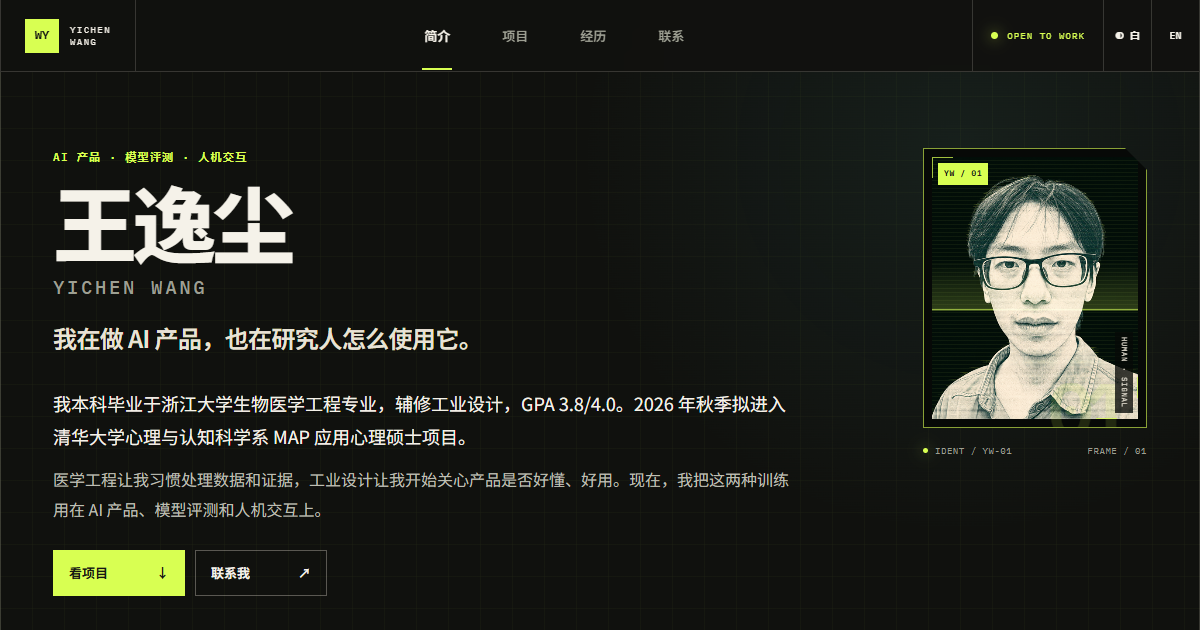
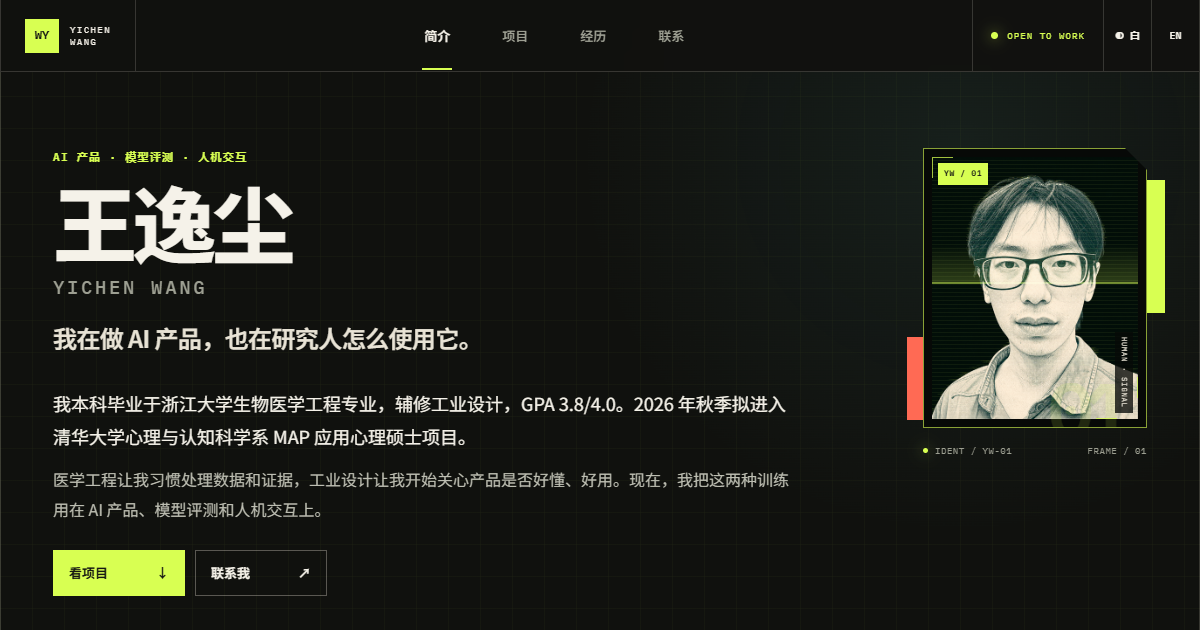
add bold color blocks and calm motion

diff --git a/styles.css b/styles.css
@@ -11,6 +11,11 @@
   --acid-soft: #a9ca3c;
   --sky: #72ddd1;
   --hot: #ff6a54;
+  --block-acid: #d8ff52;
+  --block-sky: #72ddd1;
+  --block-hot: #ff6a54;
+  --on-block: #161812;
+  --media-shadow: 14px;
   --white: #f5f2e9;
   --muted: #9d9f92;
   --text: #d5d3c9;
@@ -39,6 +44,10 @@ html[data-theme="light"] {
   --acid-soft: #5e7900;
   --sky: #167d76;
   --hot: #c74434;
+  --block-acid: #bddb38;
+  --block-sky: #5dbdb4;
+  --block-hot: #e75e4b;
+  --on-block: #151712;
 }
 
 * {
@@ -377,12 +386,14 @@ html[data-theme="light"] .site-header {
   border: 1px solid var(--line-strong);
   font-size: 13px;
   font-weight: 700;
-  transition: color 160ms ease, border-color 160ms ease, background 160ms ease;
+  transition: color 220ms ease, border-color 220ms ease, background 220ms ease, transform 320ms cubic-bezier(0.22, 1, 0.36, 1), box-shadow 320ms cubic-bezier(0.22, 1, 0.36, 1);
 }
 
 .action:hover {
   border-color: var(--acid);
   color: var(--acid);
+  box-shadow: 4px 4px 0 rgba(216, 255, 82, 0.16);
+  transform: translate(-2px, -2px);
 }
 
 .action-primary {
@@ -397,10 +408,38 @@ html[data-theme="light"] .site-header {
 }
 
 .portrait-card {
+  position: relative;
   grid-area: portrait;
   width: 224px;
   margin: 0;
   align-self: start;
+  isolation: isolate;
+}
+
+.portrait-card::before,
+.portrait-card::after {
+  position: absolute;
+  z-index: -1;
+  content: "";
+  pointer-events: none;
+}
+
+.portrait-card::before {
+  top: 32px;
+  right: -18px;
+  width: 72%;
+  height: 43%;
+  background: var(--block-acid);
+  animation: color-block-drift 8.5s cubic-bezier(0.45, 0, 0.55, 1) infinite alternate;
+}
+
+.portrait-card::after {
+  bottom: 38px;
+  left: -16px;
+  width: 44%;
+  height: 27%;
+  background: var(--block-hot);
+  animation: color-block-drift-reverse 10s cubic-bezier(0.45, 0, 0.55, 1) infinite alternate;
 }
 
 .portrait-stage {
@@ -413,6 +452,8 @@ html[data-theme="light"] .site-header {
   background: #070907;
   box-shadow: 11px 11px 0 rgba(216, 255, 82, 0.1);
   clip-path: polygon(0 0, calc(100% - 22px) 0, 100% 22px, 100% 100%, 0 100%);
+  animation: portrait-float 7.2s cubic-bezier(0.45, 0, 0.55, 1) infinite alternate;
+  will-change: transform;
 }
 
 html[data-theme="light"] .portrait-stage {
@@ -427,6 +468,8 @@ html[data-theme="light"] .portrait-stage {
   object-fit: cover;
   object-position: center;
   filter: brightness(1.02) contrast(1.04) saturate(0.78);
+  animation: portrait-breathe 9s cubic-bezier(0.45, 0, 0.55, 1) infinite alternate;
+  will-change: transform;
 }
 
 html[data-theme="light"] .portrait-image {
@@ -462,11 +505,11 @@ html[data-theme="light"] .portrait-raster {
   top: 8px;
   right: 8px;
   left: 8px;
-  height: 17%;
+  height: 14%;
   border-bottom: 1px solid rgba(216, 255, 82, 0.94);
   background: linear-gradient(to bottom, transparent, rgba(216, 255, 82, 0.2));
   mix-blend-mode: screen;
-  animation: portrait-scan 4.8s cubic-bezier(0.45, 0, 0.55, 1) infinite alternate;
+  animation: portrait-scan 6.4s cubic-bezier(0.45, 0, 0.55, 1) infinite alternate;
 }
 
 html[data-theme="light"] .portrait-scanner {
@@ -558,7 +601,47 @@ html[data-theme="light"] .portrait-code {
   }
 
   to {
-    transform: translateY(463%);
+    transform: translateY(585%);
+  }
+}
+
+@keyframes portrait-float {
+  from {
+    transform: translate3d(0, 0, 0) rotate(0deg);
+  }
+
+  to {
+    transform: translate3d(0, -4px, 0) rotate(0.35deg);
+  }
+}
+
+@keyframes portrait-breathe {
+  from {
+    transform: scale(1);
+  }
+
+  to {
+    transform: scale(1.018);
+  }
+}
+
+@keyframes color-block-drift {
+  from {
+    transform: translate3d(0, 0, 0);
+  }
+
+  to {
+    transform: translate3d(-5px, 7px, 0);
+  }
+}
+
+@keyframes color-block-drift-reverse {
+  from {
+    transform: translate3d(0, 0, 0);
+  }
+
+  to {
+    transform: translate3d(6px, -5px, 0);
   }
 }
 
@@ -648,8 +731,26 @@ html[data-theme="light"] .portrait-code {
 
 .gpa-fact {
   display: flex;
+  position: relative;
   flex-direction: column;
   justify-content: center;
+  overflow: hidden;
+  color: var(--on-block);
+  background: var(--block-acid);
+}
+
+.gpa-fact::after {
+  position: absolute;
+  right: -7px;
+  bottom: -29px;
+  color: rgba(22, 24, 18, 0.09);
+  content: "3.8";
+  font-family: var(--mono);
+  font-size: 72px;
+  font-weight: 600;
+  line-height: 1;
+  letter-spacing: -0.1em;
+  pointer-events: none;
 }
 
 .gpa-score {
@@ -657,7 +758,9 @@ html[data-theme="light"] .portrait-code {
   align-items: baseline;
   gap: 7px;
   margin: 1px 0 3px;
-  color: var(--acid);
+  position: relative;
+  z-index: 1;
+  color: var(--on-block);
   font-family: var(--mono);
   line-height: 1;
 }
@@ -668,9 +771,16 @@ html[data-theme="light"] .portrait-code {
 }
 
 .gpa-score span {
-  color: var(--white);
+  color: var(--on-block);
   font-size: 13px;
   font-weight: 600;
+}
+
+.gpa-fact .fact-label,
+.gpa-fact > p:last-child {
+  position: relative;
+  z-index: 1;
+  color: rgba(22, 24, 18, 0.7);
 }
 
 .availability {
@@ -736,13 +846,29 @@ html[data-theme="light"] .portrait-code {
   overflow: hidden;
   border: 1px solid var(--line-strong);
   background: var(--panel);
-  box-shadow: 14px 14px 0 rgba(0, 0, 0, 0.16);
+  box-shadow: var(--media-shadow) var(--media-shadow) 0 rgba(0, 0, 0, 0.16);
 }
 
 html[data-theme="light"] .case-media > a,
 html[data-theme="light"] .case-media-paper,
 html[data-theme="light"] .prototype-flow {
-  box-shadow: 14px 14px 0 rgba(22, 24, 18, 0.1);
+  box-shadow: var(--media-shadow) var(--media-shadow) 0 rgba(22, 24, 18, 0.1);
+}
+
+.case-study:nth-of-type(1) .case-media > a {
+  box-shadow: var(--media-shadow) var(--media-shadow) 0 var(--block-acid);
+}
+
+.case-study:nth-of-type(2) .case-media > a {
+  box-shadow: var(--media-shadow) var(--media-shadow) 0 var(--block-sky);
+}
+
+.case-study:nth-of-type(3) .case-media-paper {
+  box-shadow: var(--media-shadow) var(--media-shadow) 0 var(--block-hot);
+}
+
+.case-study:nth-of-type(4) .prototype-flow {
+  box-shadow: var(--media-shadow) var(--media-shadow) 0 var(--block-acid);
 }
 
 .case-media img {
@@ -1230,14 +1356,20 @@ html[data-theme="light"] .prototype-flow {
 
 .js-enabled .reveal {
   opacity: 0;
-  transform: translateY(14px);
-  transition: opacity 520ms ease, transform 520ms ease;
+  transform: translate3d(0, 20px, 0) scale(0.995);
+  transition: opacity 760ms ease, transform 760ms cubic-bezier(0.22, 1, 0.36, 1);
 }
 
 .js-enabled .reveal.is-visible {
   opacity: 1;
-  transform: translateY(0);
+  transform: translate3d(0, 0, 0) scale(1);
 }
+
+.js-enabled .hero .hero-identity.reveal { transition-delay: 20ms; }
+.js-enabled .hero .portrait-card.reveal { transition-delay: 100ms; }
+.js-enabled .hero .hero-summary.reveal { transition-delay: 150ms; }
+.js-enabled .hero .profile-facts.reveal { transition-delay: 220ms; }
+.js-enabled .hero .availability.reveal { transition-delay: 270ms; }
 
 @media (max-width: 980px) {
   .section-frame {
@@ -1359,6 +1491,10 @@ html[data-theme="light"] .prototype-flow {
 }
 
 @media (max-width: 560px) {
+  :root {
+    --media-shadow: 7px;
+  }
+
   .site-header {
     position: static;
     grid-template-columns: auto 1fr auto;
@@ -1424,6 +1560,16 @@ html[data-theme="light"] .prototype-flow {
 
   .portrait-card {
     width: 112px;
+  }
+
+  .portrait-card::before {
+    top: 18px;
+    right: -8px;
+  }
+
+  .portrait-card::after {
+    bottom: 24px;
+    left: -7px;
   }
 
   .portrait-stage {
@@ -1707,6 +1853,14 @@ html[data-theme="light"] .prototype-flow {
     width: 96px;
   }
 
+  .portrait-card::before {
+    right: -5px;
+  }
+
+  .portrait-card::after {
+    left: -5px;
+  }
+
   .hero h1 {
     font-size: 40px;
   }
@@ -1741,6 +1895,14 @@ html[data-theme="light"] .prototype-flow {
 
   .portrait-scanner {
     transform: translateY(225%);
+  }
+
+  .portrait-card::before,
+  .portrait-card::after,
+  .portrait-stage,
+  .portrait-image {
+    animation: none !important;
+    transform: none !important;
   }
 }
 
@@ -1784,11 +1946,23 @@ html[data-theme="light"] .prototype-flow {
     display: none !important;
   }
 
+  .portrait-card::before,
+  .portrait-card::after {
+    display: none !important;
+  }
+
   .portrait-stage {
     padding: 4px;
     border-color: #55584f;
     box-shadow: none;
     clip-path: none;
+    animation: none !important;
+    transform: none !important;
+  }
+
+  .portrait-image {
+    animation: none !important;
+    transform: none !important;
   }
 
   .section-frame {

diff --git a/DEVELOPMENT.md b/DEVELOPMENT.md
@@ -47,6 +47,8 @@ npm run build
 - 继续使用 `--night`、`--paper`、`--acid`、`--hot`、`--sky` 这组 Model Radar 色彩变量。
 - 避免通用 SaaS 卡片墙、紫色渐变和无目的装饰。
 - 动效承担进入、扫描和状态提示功能，并尊重 `prefers-reduced-motion`。
+- 色块承担信息层级：酸绿与珊瑚红用于人物套印，GPA 使用整块强调，项目媒体用不同信号色偏移衬底。控制为三组明确用途，避免零散贴片。
+- 动效共用“落位—呼吸—扫描”的低幅度节奏；人物漂浮不超过 4px，图像缩放不超过 1.018，色块位移不超过 7px。
 - 点阵头像来自站点所有者提供的本人照片，保持小尺寸，仅作为首屏识别符。
 - 人物使用编辑式识别卡呈现：矩形裁切、套准线、点阵纹理和一条窄扫描带。完整面部始终可见，避免圆形雷达与大块明暗分区。
 - 深色模式突出酸绿识别条、设备铭牌与硬边偏移阴影；浅色模式使用纸张、深墨和橄榄套印，避免发光雷达效果。
@@ -61,6 +63,8 @@ npm run build
 - Preserve the Model Radar color variables and signal language.
 - Avoid generic SaaS card grids and decorative effects without an information purpose.
 - Motion should support entry, scanning, or status, with reduced-motion support.
+- Use color blocks as structure: acid and coral behind the portrait, a solid GPA block, and signal-color backings behind project media.
+- Keep motion on one low-amplitude settle, breathe, and scan rhythm; portrait drift stays within 4px, image scale within 1.018, and color-block travel within 7px.
 - Use the owner-approved likeness inside a compact editorial identity card with registration marks and raster texture.
 - Keep the full face visible and move only a narrow horizontal scanning band. Stop the band under reduced motion and remove overlays in print.
 - Default to dark mode, detect the browser language, and persist explicit language/theme choices in `localStorage`.

diff --git a/README.md b/README.md
@@ -19,9 +19,9 @@ This is Yichen Wang's résumé and portfolio site, focused on AI product work, m
 
 ## 视觉方向 / Visual Direction
 
-网站沿用 Model Radar 的复古控制室语言：网格、大字号、纸色与荧光信号色。首屏先给出简历关键信息，人物以编辑式识别卡呈现；窄扫描带经过时只增加局部亮度，完整面部始终可见。项目在前，个人经历在后。
+网站沿用 Model Radar 的复古控制室语言：网格、大字号、纸色与荧光信号色。酸绿与珊瑚红色块构成人物卡的套印底座，GPA 作为完整信息色块，项目画面使用不同信号色偏移衬底。首屏先给出简历关键信息，人物以编辑式识别卡呈现；窄扫描带经过时只增加局部亮度，完整面部始终可见。项目在前，个人经历在后。
 
-The visual system extends Model Radar's control-room language with an editorial identity card: registration marks, raster texture, and a narrow scanning band over a fully visible portrait. The page moves from résumé facts to selected work, experience, and contact.
+The visual system extends Model Radar's control-room language through bold offset color blocks, an editorial identity card, and signal-color backings for project media. Registration marks, raster texture, and a narrow scanning band keep the fully visible portrait active without overwhelming it. The page moves from résumé facts to selected work, experience, and contact.
 
 ## 本地预览 / Local Preview
 
